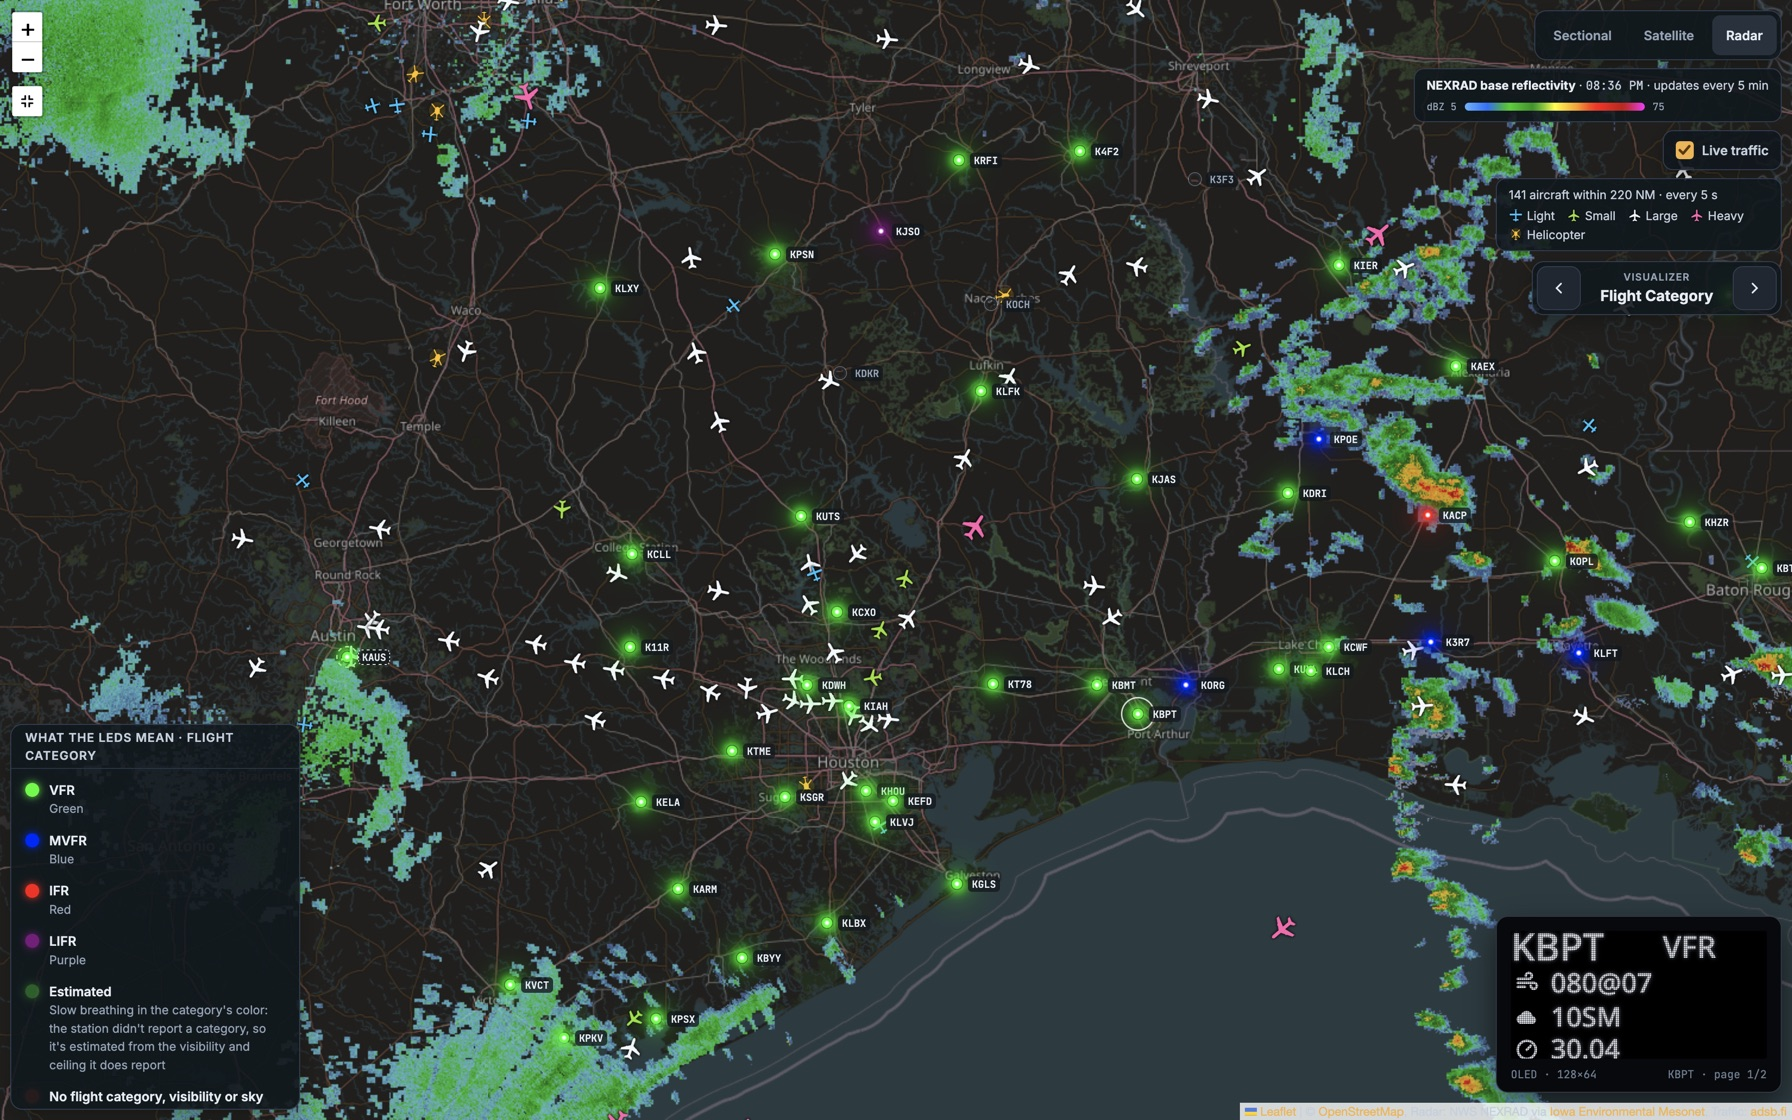
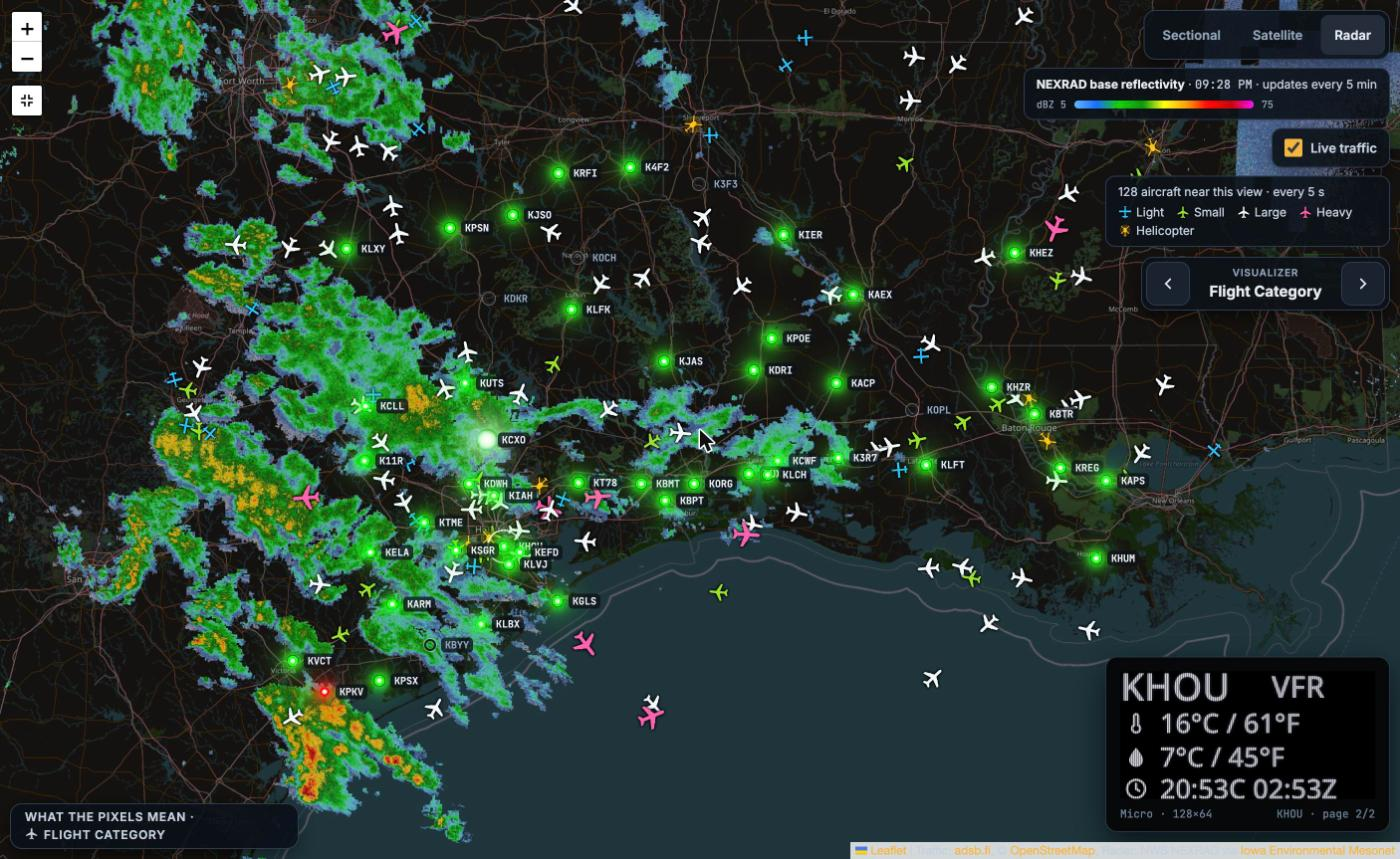
Live traffic: review fixes (B91)
A view that takes in every airport gets the airports' circle (the Chart's own default view works again), only one new place starts per traffic_seconds and at most 4 are kept, every place shows a 429 pause, the Map page wraps its longitude past the dateline and doesn't re-ask while following an aircraft, and a failed poll no longer re-asks every 1.2 s. API.md, README and CHANGELIST updated; map_live_traffic.jpg retaken.

diff --git a/src/metarmap/web/static/map.js b/src/metarmap/web/static/map.js
@@ -1240,7 +1240,8 @@
     function trafficView() {
         const bounds = map.getBounds(), center = bounds.getCenter();
         const meters = Math.max(map.distance(center, bounds.getNorthEast()), map.distance(center, bounds.getSouthWest()));
-        return {lat: center.lat, lon: center.lng, nm: Math.ceil(meters / 1852)};
+        // wrapped: dragged past the dateline the map's longitude goes beyond 180, which the Chart refuses
+        return {lat: center.lat, lon: map.wrapLatLng(center).lng, nm: Math.max(1, Math.ceil(meters / 1852))};
     }
 
     function syncAircraft(list) {
@@ -1360,6 +1361,7 @@
                 trafficLoading = t.fetched === null && !t.error && !t.too_wide;
             } catch (err) {
                 console.error('[map] traffic failed', err);
+                trafficLoading = false;
                 trafficNote.textContent = 'Live traffic: the map can\'t be reached';
                 trafficNote.hidden = !trafficOn;
             } finally {
@@ -1372,8 +1374,9 @@
     }
 
     // moved or zoomed: draw what we have for the new view, then ask for it (the Chart shares what it fetched for nearby views)
+    // (not while following an aircraft: the map is moved every glide tick, and it isn't looking anywhere new)
     map.on('moveend', function () {
-        if (!trafficOn) return;
+        if (!trafficOn || followed) return;
         clearTimeout(moveTimer);
         moveTimer = setTimeout(function () {
             if (!trafficOn) return;

diff --git a/src/metarmap/traffic.py b/src/metarmap/traffic.py
@@ -5,9 +5,11 @@ Fetched only while someone is looking: each Map page that has live traffic ticke
 (center and radius), and the map asks adsb.fi again only when what it has for that place is older than
 geo.map.traffic_seconds. A view is snapped to a grid cell (cover()), so pages looking at about the same place share
 one fetch. Every fetch waits at least MIN_GAP seconds after the last one, so the map never asks adsb.fi more than once
-a second, however many pages are open or where they look. A view wider than MAX_VIEW_NM gets no aircraft (a whole
-country holds thousands, too many for a Pi to parse). Without a view it's the circle around the airports. A failed
-fetch waits longer each time.
+a second, however many pages are open or where they look, and only one place not fetched before starts per
+geo.map.traffic_seconds, so a script that keeps changing its view can't keep the Pi fetching. A view wider than
+MAX_VIEW_NM gets no aircraft (a whole country holds thousands, too many for a Pi to parse), unless it takes in every
+airport: then it's the circle around the airports, which is also the answer without a view. A failed fetch waits
+longer each time.
 
 adsb.fi's open data is free for personal, non-commercial use, at most one request a second, and the map must credit
 it (the Map page does). https://github.com/adsbfi/opendata
@@ -38,7 +40,8 @@ RADII = (40, 75, 110, 150)  # NM: the circles asked about for a view (a few size
 MAX_VIEW_NM = 135  # the widest view (its radius) that gets aircraft: a RADII circle always covers it, snapping included
 MIN_GAP = 1.1  # seconds between any two requests to adsb.fi (its limit is one a second)
 KEEP_SECONDS = 120  # a place nobody has asked about for this long is forgotten
-MAX_PLACES = 12
+MAX_PLACES = 4
+TOO_MANY = "adsb.fi says too many requests"
 COMPACT = (",", ":")
 
 
@@ -237,6 +240,7 @@ class Traffic:
         self._lock = threading.Lock()
         self._places = {}  # circle (None: no airport positions yet) -> Place
         self._last_request = None  # when adsb.fi was last asked
+        self._last_new = None  # when a place with nothing fetched yet last started its first fetch
         self._blocked_until = 0  # no requests before this (after adsb.fi answers 429)
 
     def interval(self):
@@ -248,6 +252,7 @@ class Traffic:
             (place.tried is None or now - place.tried >= max(self.interval(), place.backoff))
             and now >= self._blocked_until
             and (self._last_request is None or now - self._last_request >= MIN_GAP)
+            and (place.tried is not None or self._last_new is None or now - self._last_new >= self.interval())
         )
 
     def snapshot(self, view=None):
@@ -268,6 +273,10 @@ class Traffic:
             circle, wide = area(self._points()), False
         else:
             circle = cover(*view)
+            if circle is None:  # too wide, unless it takes in every airport (the Chart's own view, say)
+                home = list(self._points())
+                if home and all(distance_nm(view[:2], p) <= view[2] for p in home):
+                    circle = area(home)
             wide = circle is None
         if wide:
             return None, True
@@ -293,11 +302,14 @@ class Traffic:
 
     def fetch(self, place, circle):
         """Asks adsb.fi about circle. Never raises: a failure is kept as the place's error."""
+        first = place.tried is None
         now = place.tried = self._clock()
         if circle is None:
             self._failed(place, "no airport positions yet")
             return
         self._last_request = now
+        if first:
+            self._last_new = now
         (lat, lon), radius = circle
         try:
             response = self._get(
@@ -305,7 +317,7 @@ class Traffic:
             )
             if response.status_code == 429:
                 self._blocked_until = now + RATE_LIMITED
-                self._failed(place, "adsb.fi says too many requests", at_least=RATE_LIMITED)
+                self._failed(place, TOO_MANY, at_least=RATE_LIMITED)
                 return
             response.raise_for_status()
             aircraft = parse(response.json(), now)
@@ -342,6 +354,8 @@ class Traffic:
             shown = self._shown(place, ground)
             circle = place.circle if place else None
             fetched, error = (place.fetched, place.error) if place else (None, None)
+        if place and error is None and self._clock() < self._blocked_until:
+            error = TOO_MANY  # adsb.fi said so to another place: nobody asks until it's over
         state = {
             "now": self._clock(),
             "interval": self.interval(),

diff --git a/tests/test_traffic.py b/tests/test_traffic.py
@@ -388,7 +388,7 @@ def test_pages_looking_at_the_same_place_share_a_fetch():
 def test_a_view_too_wide_gets_no_aircraft_and_no_fetch():
     adsb = FakeAdsbFi()
     t, _, _ = make(get=adsb)
-    state = t.snapshot((39.0, -98.0, 1000))
+    state = t.snapshot((45.0, -110.0, 400))
     assert state["too_wide"] and state["aircraft"] == [] and state["max_view"] == traffic.MAX_VIEW_NM
     assert adsb.urls == []
 
@@ -400,8 +400,21 @@ def test_adsb_fi_is_asked_at_most_once_a_second_wherever_pages_look():
     state = t.snapshot((29.98, -95.34, 60))  # another place, right after
     assert len(adsb.urls) == 1 and state["fetched"] is None  # it's loading: its page asks again
     clock.t += traffic.MIN_GAP
+    t.snapshot(NYC)  # a place that has been fetched before is only held back by the gap, which has passed
+    assert len(adsb.urls) == 1  # (it isn't due yet)
+    clock.t += 5
     assert t.snapshot((29.98, -95.34, 60))["fetched"] == clock.t
     assert len(adsb.urls) == 2
+
+
+def test_only_one_new_place_starts_per_interval():
+    adsb = FakeAdsbFi()
+    t, _, clock = make(get=adsb, seconds=5)
+    for i in range(6):  # a script that keeps changing its view
+        t.snapshot((30.0 + i, -95.0, 40))
+        clock.t += 2
+    assert len(adsb.urls) == 2  # at t=0 and t=6: not one every 1.1 s
+    assert len(t._places) == 4  # and the rest are forgotten
 
 
 def test_too_many_requests_stops_every_place():
@@ -447,5 +460,44 @@ def test_the_json_is_the_snapshot_serialized_once_per_fetch(monkeypatch):
 
 
 def test_the_json_of_a_view_too_wide():
-    state = json.loads(make()[0].snapshot_json((39.0, -98.0, 1000)))
+    state = json.loads(make()[0].snapshot_json((45.0, -110.0, 400)))
     assert state["too_wide"] and state["aircraft"] == []
+
+
+def test_a_view_that_takes_in_every_airport_gets_their_circle():
+    adsb = FakeAdsbFi()
+    t, _, _ = make(get=adsb)
+    state = t.snapshot((30.4761, -95.3414, 400))  # wider than a view may be, with all of HOUSTON in it
+    assert not state["too_wide"] and state["radius"] == traffic.area(HOUSTON)[1]
+    assert adsb.urls == [f"https://opendata.adsb.fi/api/v3/lat/30.4761/lon/-95.3414/dist/{state['radius']}"]
+    assert t.snapshot()["fetched"] == state["fetched"]  # the same place as without a view: no second fetch
+    assert len(adsb.urls) == 1
+
+
+def test_a_wide_view_elsewhere_is_still_too_wide():
+    t, _, _ = make()
+    assert t.snapshot((45.0, -110.0, 400))["too_wide"]
+
+
+def test_a_wide_view_with_no_airport_positions_is_too_wide():
+    t, _, _ = make(points=[])
+    assert t.snapshot((30.4761, -95.3414, 400))["too_wide"]
+
+
+def test_every_place_says_when_adsb_fi_told_one_to_wait():
+    adsb = FakeAdsbFi(FakeResponse(status=429), FakeResponse())
+    t, _, clock = make(get=adsb, seconds=2)
+    t.snapshot(NYC)
+    clock.t += 10
+    other = t.snapshot((29.98, -95.34, 60))  # never fetched, and nobody is asking until the wait is over
+    assert other["error"] == traffic.TOO_MANY and other["fetched"] is None and len(adsb.urls) == 1
+    clock.t += traffic.RATE_LIMITED
+    assert t.snapshot((29.98, -95.34, 60))["error"] is None
+
+
+def test_one_place_failing_doesnt_slow_the_others():
+    adsb = FakeAdsbFi(requests.exceptions.ConnectionError("down"), FakeResponse())
+    t, _, clock = make(get=adsb, seconds=2)
+    t.snapshot(NYC)
+    clock.t += 6  # past the new-place wait
+    assert t.snapshot((29.98, -95.34, 60))["error"] is None

diff --git a/tests/test_web.py b/tests/test_web.py
@@ -296,6 +296,18 @@ def test_api_traffic_is_gzipped_when_asked(client):
     assert json.loads(gzip.decompress(client.raw))["too_wide"] is False
 
 
+def test_api_traffic_is_plain_without_the_header(client):
+    client.services.traffic = Traffic(
+        lambda: client.services.config.data.geo.map,
+        lambda: [],
+        get=lambda url, **kwargs: SimpleNamespace(
+            status_code=200, raise_for_status=lambda: None, json=lambda: {"ac": []}
+        ),
+    )
+    status, body = client("/api/traffic?lat=40&lon=-74&nm=60")
+    assert status == 200 and "Content-Encoding" not in client.headers and json.loads(body)["too_wide"] is False
+
+
 def test_api_advisories(client):
     def get(url, **kwargs):
         if "gairmet" in url:

diff --git a/API.md b/API.md
@@ -471,15 +471,18 @@ Query (all three together, or none):
 | Parameter | Description |
 |---|---|
 | `lat`, `lon` | The center of the view, in degrees |
-| `nm` | The radius of the view in nautical miles, from its center to a corner. Over 135 the answer has `too_wide: true` and no aircraft. A 400 for a missing, non-numeric or out-of-range value |
+| `nm` | The radius of the view in nautical miles, from its center to a corner. Over 135 the answer has `too_wide: true` and no aircraft, unless the view takes in every airport: then it's the circle around the airports, as with no query |
+
+A 400 for a missing or non-numeric value, a `lat` outside -90 to 90, a `lon` outside -180 to 180 (the Map page wraps it), and an `nm` that is 0 or less, or too large to be a number.
 
 The Chart asks adsb.fi only when this is requested and what it has for that place is older than
 `geo.map.traffic_seconds`. A view is snapped to a 0.25° grid and a circle of 40, 75, 110 or 150 NM that covers it, so
 pages looking at about the same place share one fetch. Any two fetches are at least 1.1 s apart (adsb.fi allows one a
-second), however many pages are open, so a page looking somewhere new may get `fetched: null` first and has the aircraft
-on its next poll. Places nobody asks about for 2 minutes are forgotten (at most 12 are kept). Nothing is fetched while
+second), however many pages are open, and only one place that has not been fetched before starts per `interval`, so a
+page looking somewhere new may get `fetched: null` first and has the aircraft on a later poll. Places nobody asks about
+for 2 minutes are forgotten (at most 4 are kept). Nothing is fetched while
 no page asks. A failed fetch waits longer each time (twice the interval, doubling, at most 5 minutes; at least a minute
-after adsb.fi answers 429, for every place), and keeps the aircraft from the last fetch that worked. adsb.fi's data is
+after adsb.fi answers 429, for every place: each one's `error` says so), and keeps the aircraft from the last fetch that worked. adsb.fi's data is
 free for personal, non-commercial use, and must be credited.
 
 ```json
@@ -491,6 +494,8 @@ free for personal, non-commercial use, and must be credited.
   "center": [30.41495, -93.75705],
   "radius": 216,
   "source": { "name": "adsb.fi", "url": "https://adsb.fi/" },
+  "too_wide": false,
+  "max_view": 135,
   "aircraft": [
     {
       "hex": "a0822c", "flight": "UCA4878", "reg": "N13161", "type": "E45X", "desc": "EMBRAER ERJ-145XR",

diff --git a/CHANGELIST.md b/CHANGELIST.md
@@ -1,5 +1,7 @@
 ### Unreleased
 
+- **Live traffic follows the map.** Tick **Live traffic** on the Map page and pan or zoom: you now see the aircraft in the view, not only the ones around your airports (pan to New York and you see New York's traffic). A view more than about 135 NM from its center to a corner shows "zoom in to see aircraft" instead, unless it takes in all your airports (then it's the traffic around them, as before). The Chart shares what it fetched between pages looking at the same place, asks adsb.fi at most once a second, and starts only one new place per `geo.map.traffic_seconds`; the answer is gzipped (about 21 KB instead of 85 KB for a busy circle). `/api/traffic` takes `lat`, `lon` and `nm`, and its answer has `too_wide` and `max_view` (see [API.md](API.md#get-apitraffic)). Measured on a Pi Zero W, a busy fetch takes about 0.25 to 0.5 s of its one core; not yet tried on the iPad's Safari 12.
+
 - **The Chart serves its visualizer icons, so the Copilot can show icons it doesn't know yet.** Each visualizer's icon is now also at `/api/icon/<name>`, as a small 20x20 mask that a client draws in its own colors, and `/api/status` and `/api/live` give each visualizer an `iconRev` that changes only when its icon does. A Copilot can then fetch the icon of a visualizer that is newer than its firmware (FAA Delays' hourglass, for one) and keep it, instead of showing none; the Copilot firmware that does this comes in a later release. The icons are drawn ahead of time, so the Chart does no drawing when asked, and nothing else in `/api/status` or `/api/live` changed. Rainbow's icon there is its plain one-color version (three arcs), since a mask has no colors. For developers: after changing an icon's shape in `web/icons.py`, run `tools/make_icon_masks.py` (it needs `rsvg-convert`) and commit the regenerated `web/icon_masks.py`; the tests check that they match. New endpoint in `API.md`.
 
 - **No lightning flicker in Advisories, TFR and FAA Delays.** These three show something other than the weather at the airport, so a lightning flicker over their colors only got in the way (a thunderstorm could hide a TFR or a ground stop). They no longer flash lightning, and their legends no longer list it; every other weather visualizer is unchanged, and the lightning settings in Config work as before.

diff --git a/README.md b/README.md
@@ -90,7 +90,8 @@ wrote it, the line being read lit:
 Tick **Live traffic** to see the aircraft in the map's view from [adsb.fi](https://adsb.fi/), each icon sized and
 colored by the class of aircraft (light, small, large, heavy, helicopter...). It follows the map: pan to New York and you
 see New York's traffic. Zoom out past about 135 NM from the center to a corner (a state or two) and it asks you to zoom
-in: a whole country holds thousands of aircraft, too many for a Pi Zero to fetch and draw.
+in, unless the view takes in all your airports (then you see the traffic around them, as before): a whole country
+holds thousands of aircraft, too many for a Pi Zero to fetch and draw.
 
 ![Live traffic on the Map page over radar, with a key to the aircraft classes](docs/images/map_live_traffic.jpg)
 
